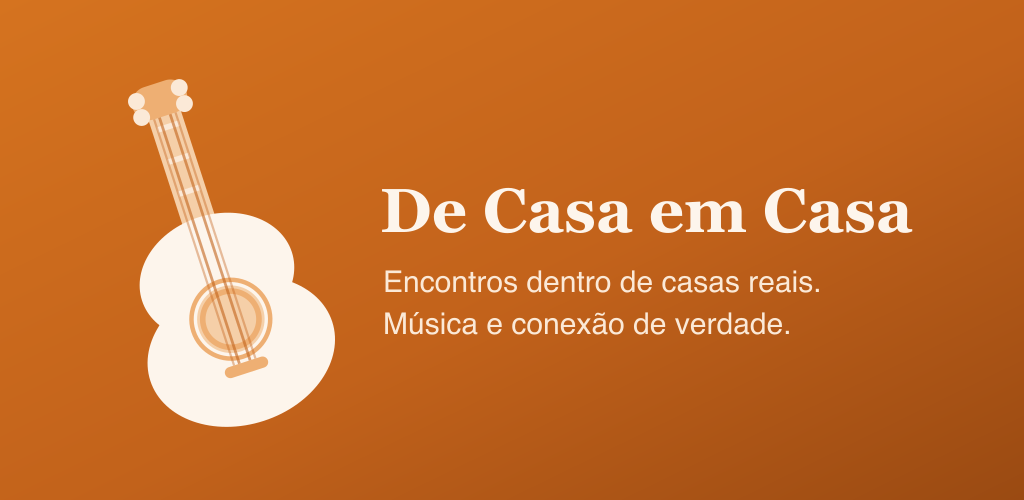
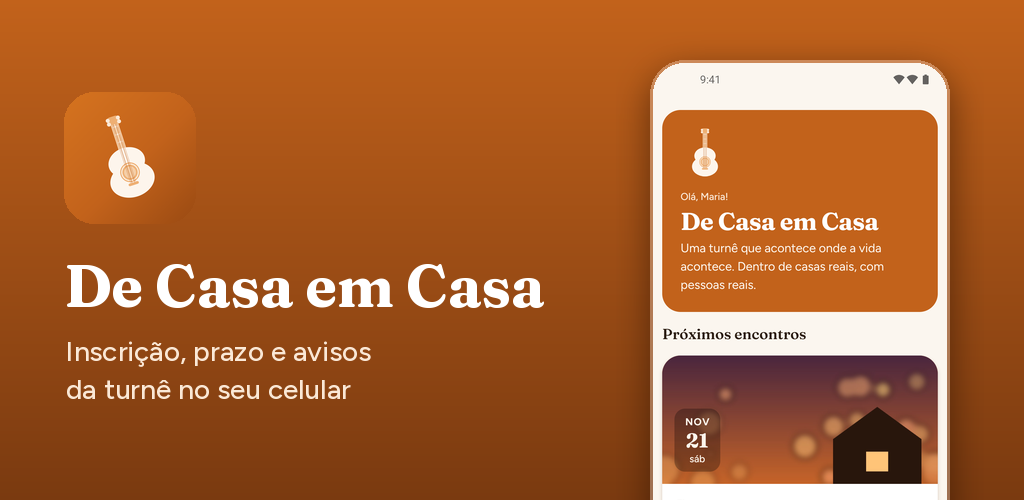
feat(mobile): imagens das lojas no padrão do HelpCheck e do TreinaEdu
Telas reais do app, gravadas contra o banco fictício "Velunora", sobre o
terracota da marca com uma frase curta em cima. O scripts/compor-capturas.py
(adaptado do TreinaEdu) monta tudo a partir de store/originais:

- App Store: 7 capturas em 1320 x 2868 e em 1206 x 2622, mais o cabeçalho
  da página do produto (5244 x 2950), das telas do simulador do iPhone.
- Google Play: 7 capturas em 1080 x 1920 e o recurso gráfico 1024 x 500
  (agora com o ícone e a tela de encontros), das telas do emulador Android.

As 7 telas: encontros, o encontro, a inscrição (manifesto), aprovada com
prazo e Pix, confirmada com endereço, avisos e minhas inscrições. Onde vai
cada imagem e como gravar de novo: store/textos.md, seção 3.

diff --git a/mobile/scripts/compor-capturas.py b/mobile/scripts/compor-capturas.py
@@ -1,0 +1,200 @@
+"""Monta as imagens das lojas a partir das capturas reais do app (store/originais).
+
+Mesmo método do HelpCheck e do TreinaEdu: a tela REAL do app, gravada contra o banco
+fictício "Velunora", ganha o fundo terracota da marca e uma frase curta em cima.
+Saem os tamanhos que as lojas pedem:
+
+- App Store, iPhone com Dynamic Island, tela média (1206 x 2622): o quadro que o App Store
+  Connect pede primeiro desde 2026.
+- App Store, iPhone 6,9" (1320 x 2868).
+- App Store, cabeçalho da página do produto e resultados de busca (16:9, 5244 x 2950).
+- Google Play, telefone (1080 x 1920, 9:16) e recurso gráfico (1024 x 500).
+
+As telas da App Store saem das capturas do simulador do iPhone (originais/ios) e as do
+Google Play, das do emulador Android (originais/android): a Apple recusa imagem com
+interface de outra plataforma. Tudo em PNG sem transparência.
+
+Rodar da pasta mobile/ (Python 3 com Pillow):  python3 scripts/compor-capturas.py
+Como tirar as capturas de novo: store/textos.md, seção 3.
+"""
+from pathlib import Path
+
+from PIL import Image, ImageDraw, ImageFilter, ImageFont
+
+MOBILE = Path(__file__).resolve().parent.parent
+STORE = MOBILE / "store"
+ORIGINAIS = STORE / "originais"
+# Fraunces e Figtree, as fontes do app (OFL), dos pacotes do @expo-google-fonts.
+FONTES = MOBILE / "node_modules" / "@expo-google-fonts"
+TITULO = FONTES / "fraunces" / "700Bold" / "Fraunces_700Bold.ttf"
+TEXTO = FONTES / "figtree" / "500Medium" / "Figtree_500Medium.ttf"
+
+# O terracota do app (src/theme/colors.ts, brand 600), escurecido no fim (brand 800) para a
+# frase branca ler bem em qualquer altura.
+TERRACOTA_TOPO = (0xC2, 0x62, 0x1B)
+TERRACOTA_BASE = (0x7A, 0x3A, 0x10)
+AREIA = (0xFB, 0xE9, 0xD7)
+BRILHO = (0xF5, 0xCF, 0xA8)
+BRANCO = (255, 255, 255)
+
+# A ordem das capturas na loja e a frase de cada uma. Cada frase diz o que a TELA mostra:
+# nada que o app não faça. Sem travessão; "seu lugar na sala", nunca "cadeira".
+FRASES = {
+    "01-encontros": "Os encontros da turnê no seu celular",
+    "02-encontro": "Saiba como funciona cada encontro",
+    "03-inscricao": "Conte sua história na inscrição",
+    "04-aprovada": "O prazo e o Pix na mesma tela",
+    "05-confirmada": "Seu lugar na sala, com endereço e horário",
+    "06-avisos": "Os avisos da equipe chegam na hora",
+    "07-inscricoes": "O status de cada inscrição à mão",
+}
+
+DESTAQUE = ("De Casa em Casa", "Inscrição, prazo e avisos", "da turnê no seu celular")
+
+# O cabeçalho da App Store: a tela do meio e as dos lados.
+CABECALHO_CENTRO = "01-encontros"
+CABECALHO_LADOS = ("02-encontro", "05-confirmada")
+
+TAMANHO_IOS = (1320, 2868)
+TAMANHO_ANDROID = (1080, 2340)
+
+
+def fundo(largura, altura):
+    """O terracota da marca, num degradê de cima para baixo."""
+    img = Image.new("RGB", (largura, altura), TERRACOTA_TOPO)
+    d = ImageDraw.Draw(img)
+    for y in range(altura):
+        t = y / max(altura - 1, 1)
+        cor = tuple(round(TERRACOTA_TOPO[i] + (TERRACOTA_BASE[i] - TERRACOTA_TOPO[i]) * t) for i in range(3))
+        d.line([(0, y), (largura, y)], fill=cor)
+    return img
+
+
+def quebrar(texto, fonte, largura_maxima, d):
+    """Quebra a frase em linhas que cabem na largura, equilibrando as duas linhas."""
+    palavras = texto.split()
+    if d.textlength(texto, font=fonte) <= largura_maxima:
+        return [texto]
+    melhor = None
+    for i in range(1, len(palavras)):
+        a, b = " ".join(palavras[:i]), " ".join(palavras[i:])
+        la, lb = d.textlength(a, font=fonte), d.textlength(b, font=fonte)
+        if max(la, lb) <= largura_maxima and (melhor is None or abs(la - lb) < melhor[0]):
+            melhor = (abs(la - lb), [a, b])
+    if melhor is None:
+        raise SystemExit(f'frase longa demais para duas linhas: "{texto}"')
+    return melhor[1]
+
+
+def escrever_centralizado(img, linhas, fonte, centro_y, entrelinha, cor=BRANCO):
+    d = ImageDraw.Draw(img)
+    altura_total = entrelinha * len(linhas)
+    y = centro_y - altura_total / 2
+    for linha in linhas:
+        largura = d.textlength(linha, font=fonte)
+        d.text(((img.width - largura) / 2, y), linha, font=fonte, fill=cor)
+        y += entrelinha
+
+
+def tela_arredondada(captura, largura, raio):
+    """A captura reduzida, com cantos arredondados, borda fina e sombra."""
+    altura = round(captura.height * largura / captura.width)
+    tela = captura.resize((largura, altura), Image.LANCZOS).convert("RGBA")
+    mascara = Image.new("L", (largura, altura), 0)
+    ImageDraw.Draw(mascara).rounded_rectangle([0, 0, largura - 1, altura - 1], radius=raio, fill=255)
+    tela.putalpha(mascara)
+    margem = raio
+    com_sombra = Image.new("RGBA", (largura + 2 * margem, altura + 2 * margem), (0, 0, 0, 0))
+    sombra = Image.new("L", com_sombra.size, 0)
+    ImageDraw.Draw(sombra).rounded_rectangle([margem, margem + 12, margem + largura, margem + altura + 12], radius=raio, fill=150)
+    sombra = sombra.filter(ImageFilter.GaussianBlur(margem / 2))
+    # Sombra num marrom bem escuro, não preto: fica quente como o fundo.
+    com_sombra.paste((40, 16, 0, 255), (0, 0), sombra)
+    com_sombra.alpha_composite(tela, (margem, margem))
+    ImageDraw.Draw(com_sombra).rounded_rectangle(
+        [margem, margem, margem + largura - 1, margem + altura - 1], radius=raio, outline=(255, 255, 255, 70), width=3
+    )
+    return com_sombra, margem
+
+
+def compor(captura, frase, largura, altura, largura_da_tela, tamanho_da_letra, area_da_frase, raio):
+    img = fundo(largura, altura).convert("RGBA")
+    d = ImageDraw.Draw(img)
+    fonte = ImageFont.truetype(str(TITULO), tamanho_da_letra)
+    linhas = quebrar(frase, fonte, largura * 0.86, d)
+    escrever_centralizado(img, linhas, fonte, area_da_frase / 2 + tamanho_da_letra * 0.1, round(tamanho_da_letra * 1.18))
+    tela, margem = tela_arredondada(captura, largura_da_tela, raio)
+    if area_da_frase + tela.height - 2 * margem > altura:
+        raise SystemExit(f"a tela não cabe em {largura} x {altura}")
+    x = (largura - tela.width) // 2
+    y = area_da_frase - margem
+    img.alpha_composite(tela, (x, y))
+    return img.convert("RGB")
+
+
+def destaque(inicio):
+    """O recurso gráfico do Google Play: marca à esquerda, a lista de encontros à direita."""
+    img = fundo(1024, 500).convert("RGBA")
+    d = ImageDraw.Draw(img)
+    icone = Image.open(MOBILE / "assets" / "images" / "icon.png").convert("RGBA").resize((132, 132), Image.LANCZOS)
+    mascara = Image.new("L", icone.size, 0)
+    ImageDraw.Draw(mascara).rounded_rectangle([0, 0, 131, 131], radius=30, fill=255)
+    icone.putalpha(mascara)
+    img.alpha_composite(icone, (64, 92))
+    nome, linha1, linha2 = DESTAQUE
+    d.text((64, 250), nome, font=ImageFont.truetype(str(TITULO), 58), fill=BRANCO)
+    fonte = ImageFont.truetype(str(TEXTO), 28)
+    d.text((66, 334), linha1, font=fonte, fill=AREIA)
+    d.text((66, 372), linha2, font=fonte, fill=AREIA)
+    tela, margem = tela_arredondada(inicio, 300, 34)
+    img.alpha_composite(tela, (650 - margem, 60 - margem))
+    return img.convert("RGB")
+
+
+def cabecalho():
+    """O cabeçalho da página do produto na App Store, também usado nos resultados de busca.
+
+    16:9 em 5244 x 2950, sem transparência. A Apple corta as laterais conforme a tela, então o
+    que importa fica no centro. Sem texto: o nome e o subtítulo aparecem logo abaixo.
+    """
+    largura, altura = 5244, 2950
+    img = fundo(largura, altura).convert("RGBA")
+    brilho = Image.new("L", (largura, altura), 0)
+    ImageDraw.Draw(brilho).ellipse([largura / 2 - 1500, 500, largura / 2 + 1500, 2700], fill=80)
+    brilho = brilho.filter(ImageFilter.GaussianBlur(400))
+    img.paste(Image.new("RGBA", (largura, altura), BRILHO + (255,)), (0, 0), brilho)
+    for nome, x in zip(CABECALHO_LADOS, (1022, 3322)):
+        tela, margem = tela_arredondada(abrir("ios", nome), 900, 60)
+        img.alpha_composite(tela, (x - margem, 820 - margem))
+    tela, margem = tela_arredondada(abrir("ios", CABECALHO_CENTRO), 1100, 74)
+    img.alpha_composite(tela, ((largura - 1100) // 2 - margem, 420 - margem))
+    return img.convert("RGB")
+
+
+def abrir(plataforma, nome):
+    captura = Image.open(ORIGINAIS / plataforma / f"{nome}.png").convert("RGB")
+    esperado = TAMANHO_IOS if plataforma == "ios" else TAMANHO_ANDROID
+    if captura.size != esperado:
+        raise SystemExit(f"{plataforma}/{nome}: {captura.size}; esperado {esperado[0]} x {esperado[1]}")
+    return captura
+
+
+def salvar(img, caminho):
+    caminho.parent.mkdir(parents=True, exist_ok=True)
+    img.save(caminho, optimize=True)
+    print(caminho.relative_to(MOBILE))
+
+
+def main():
+    for nome, frase in FRASES.items():
+        ios = abrir("ios", nome)
+        salvar(compor(ios, frase, 1320, 2868, 1040, 92, 520, 70), STORE / "app-store" / "capturas-6.9" / f"{nome}.png")
+        salvar(compor(ios, frase, 1206, 2622, 950, 84, 475, 64), STORE / "app-store" / "capturas-1206x2622" / f"{nome}.png")
+        android = abrir("android", nome)
+        salvar(compor(android, frase, 1080, 1920, 680, 64, 370, 46), STORE / "google-play" / "capturas" / f"{nome}.png")
+    salvar(destaque(abrir("android", "01-encontros")), STORE / "google-play" / "grafico-recursos-1024x500.png")
+    salvar(cabecalho(), STORE / "app-store" / "cabecalho-5244x2950.png")
+
+
+if __name__ == "__main__":
+    main()

diff --git a/mobile/store/textos.md b/mobile/store/textos.md
@@ -51,22 +51,55 @@ pelo site com o mesmo e-mail aparecem no app.
 
 A inscrição é individual: cada pessoa faz a sua, inclusive crianças e acompanhantes.
 
-## 3. Capturas de tela (roteiro)
+## 3. Imagens das lojas (prontas)
 
-iPhone 6,9 pol. (1320 x 2868 ou 1290 x 2796) e Android 9:16 (1080 x 1920). Use um
-encontro de teste e uma conta sua, nunca dados de participantes reais.
+Mesmo padrão do HelpCheck e do TreinaEdu: a tela REAL do app sobre o terracota da marca,
+com uma frase curta em cima. As telas foram gravadas contra o banco fictício "Velunora"
+(Maria Velunora, e-mails `.example`, endereço fictício): nada de participante real.
 
-1. **Encontros:** a lista com a capa terracota e as vagas.
-2. **O encontro:** a cidade, a data e "Como funciona".
-3. **Inscrição:** a etapa do manifesto, com a citação.
-4. **Minha inscrição aprovada:** o prazo com a contagem e o Pix com "Copiar".
-5. **Comprovante enviado:** o "Deu tudo certo!".
-6. **Confirmado:** o endereço com o aviso de segredo (use um endereço fictício).
-7. **Minhas inscrições:** próximos e anteriores.
+| Arquivo | Onde vai |
+|---|---|
+| `store/app-store/capturas-1206x2622/` | App Store Connect, "iPhone com Dynamic Island (tela média)", o quadro que ele pede primeiro |
+| `store/app-store/capturas-6.9/` (1320 x 2868) | App Store Connect, iPhone 6,9" |
+| `store/app-store/cabecalho-5244x2950.png` | App Store Connect, "Cabeçalho e resultados de busca" (16:9) |
+| `store/app-store/icone-1024.png` | Só se pedirem: o ícone da App Store vem do build |
+| `store/google-play/capturas/` (1080 x 1920) | Play Console, Capturas de tela do telefone |
+| `store/google-play/grafico-recursos-1024x500.png` | Play Console, Recurso gráfico |
+| `store/google-play/icone-512.png` | Play Console, Ícone do app |
 
-Legendas sugeridas (uma por captura): "Os encontros da turnê", "Escolha sua cidade",
-"Conte sua história", "Contribua dentro do prazo", "Comprovante em segundos", "Seu lugar
-na sala garantido", "Tudo num lugar só".
+As 7 telas, na mesma ordem nas duas lojas, e a frase de cada uma:
+
+1. **Encontros** (`01-encontros`): "Os encontros da turnê no seu celular".
+2. **O encontro** (`02-encontro`): "Saiba como funciona cada encontro".
+3. **Inscrição, manifesto** (`03-inscricao`): "Conte sua história na inscrição".
+4. **Aprovada, prazo e Pix** (`04-aprovada`): "O prazo e o Pix na mesma tela".
+5. **Confirmada, endereço** (`05-confirmada`): "Seu lugar na sala, com endereço e horário".
+6. **Avisos** (`06-avisos`): "Os avisos da equipe chegam na hora".
+7. **Minhas inscrições** (`07-inscricoes`): "O status de cada inscrição à mão".
+
+Na App Store as capturas ficam presas à versão: trocar exige uma versão nova em revisão.
+No Google Play dá para trocar a qualquer hora.
+
+### Capturas novas
+
+As telas cruas ficam em `store/originais/ios` (simulador do iPhone 17 Pro Max, 1320 x 2868)
+e `store/originais/android` (emulador, 1080 x 2340). A App Store usa as do iPhone e o
+Google Play, as do Android: a Apple recusa imagem com interface de outra plataforma.
+
+1. Um banco só com dados fictícios e a API local apontada para ele (servir de dentro de
+   `public/` com `php -S`, porque o `artisan serve` não repassa o `APP_ENV`).
+2. O app no Expo Go (`npx expo start --lan`) com o "Tools button" desligado no menu do
+   Expo Go (no iOS, a chave só vira arrastando, não com toque).
+3. Barra de status limpa:
+   - iOS: `xcrun simctl status_bar booted override --time 9:41 --batteryState discharging --batteryLevel 100 --wifiBars 3 --cellularBars 4 --dataNetwork wifi`
+     (com `charged` a bateria aparece verde, carregando).
+   - Android: modo de demonstração (`sysui_demo_allowed` e o broadcast
+     `com.android.systemui.demo` com relógio 0941, bateria 100, wifi cheio e sem
+     notificações).
+4. Gravar cada tela com o nome da lista acima: `xcrun simctl io booted screenshot` no iOS
+   e `adb exec-out screencap -p` no Android. Espere a barra de rolagem sumir antes.
+5. Da pasta `mobile/`: `python3 scripts/compor-capturas.py` (precisa do Pillow; as frases
+   estão no script) e conferir todas antes de subir.
 
 ## 4. Privacidade
 

diff --git a/docs/infra/publicacao-lojas.md b/docs/infra/publicacao-lojas.md
@@ -18,8 +18,12 @@ que você já tem.
 - `eas.json` com os perfis `preview` (APK interno) e `production` (lojas), os dois
   apontando para `https://decasaemcasa.omarcosalmeida.com.br`; submit Android para a
   faixa interna como rascunho; iOS em pt-BR.
-- Ícone, ícone adaptativo (com monocromático), splash, ícone 512 e gráfico de recursos
-  1024 x 500 da Play em `mobile/assets/images/` e `mobile/store/`.
+- Ícone, ícone adaptativo (com monocromático), splash e ícone 512 em
+  `mobile/assets/images/` e `mobile/store/`.
+- Imagens das lojas prontas, no padrão do HelpCheck e do TreinaEdu (fundo da marca, uma
+  frase e a tela real do app): 7 capturas para a App Store (1320 x 2868 e 1206 x 2622), o
+  cabeçalho da página do produto, 7 capturas para o Google Play (1080 x 1920) e o recurso
+  gráfico 1024 x 500. Onde vai cada uma: `mobile/store/textos.md`, seção 3.
 - Política de privacidade em `/privacidade` e página de exclusão de conta em
   `/app/excluir-conta` (vão para o ar com o deploy do servidor).
 - Textos das lojas, respostas de privacidade e notas para o revisor em
@@ -164,5 +168,5 @@ Cada build recebe update só do seu canal e da sua `runtimeVersion` (= `version`
 2. Autorização da marca (seção 7).
 3. Firebase e a chave FCM V1 (seção 2.1).
 4. `eas build` e `eas submit` (seções 3 a 5).
-5. Capturas de tela (roteiro em `mobile/store/textos.md`) no seu iPhone e no Android.
+5. Subir as imagens prontas de `mobile/store/` (tabela na seção 3 do `textos.md`).
 6. Ficha, privacidade e conta de revisão nas duas lojas.
